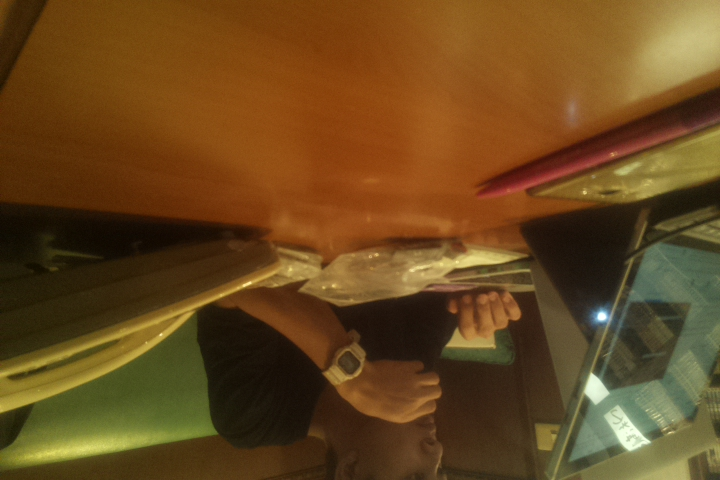
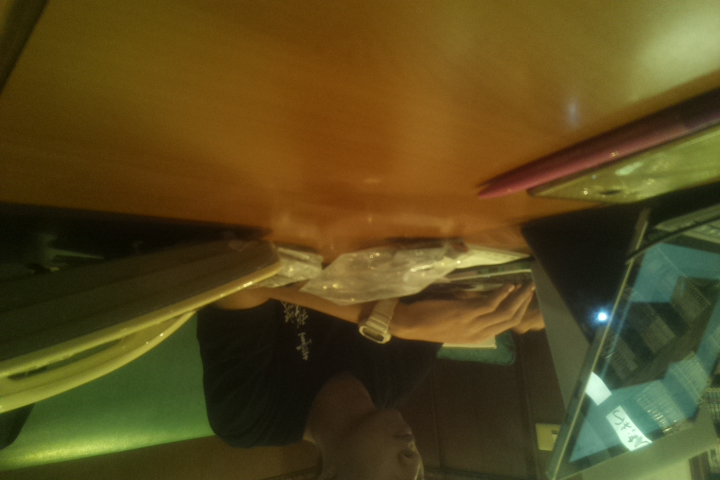
flip image

diff --git a/capture.py b/capture.py
@@ -21,13 +21,18 @@ def capture_stream():
 		camera.capture(stream, format='jpeg')
 
 	data = np.fromstring(stream.getvalue(), dtype=np.uint8)
-	#data = np.flipud(np.fliplr(data))
 	image = cv2.imdecode(data, 1)
 	image = image[:, :, ::-1]
+	imgae = np.flipud(np.fliplr(image))
+
+	end = time.time()
+	print("拍照完成，耗時 {0:.3f} 秒。".format(end - start))
+
 
 	from PIL import Image
 	img = Image.fromarray(image, 'RGB')
 	img.save('test.png')
+
 
 if __name__ == '__main__':
 	capture_stream()
